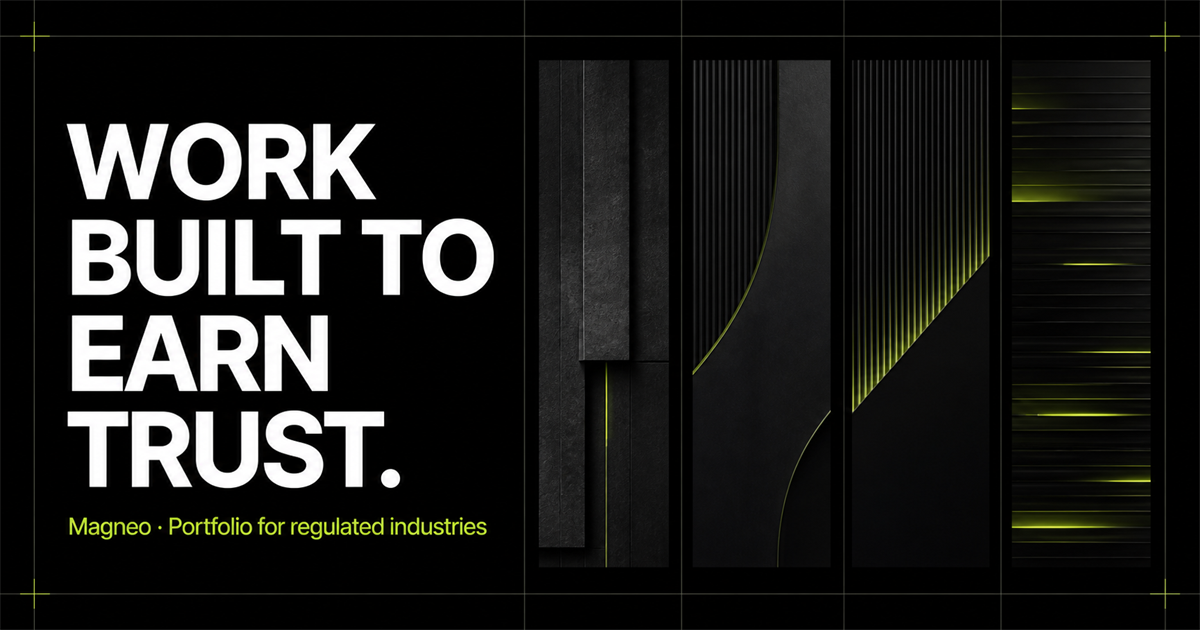
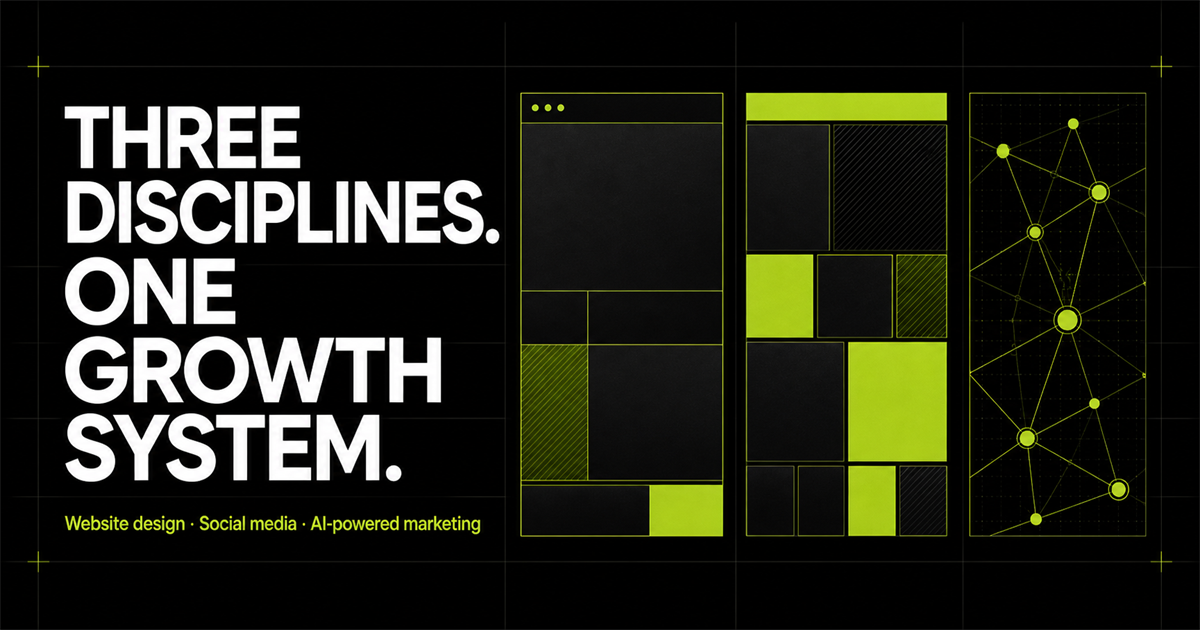
Redesign portfolio around core services

diff --git a/src/styles/portfolio.css b/src/styles/portfolio.css
@@ -1,4 +1,4 @@
-.pf-main{--lime:#8fef00;--black:#090a09;--paper:#f4f3ef;--ink:#11130f;--line:#d9dbd4;color:var(--ink);background:#fff;overflow:hidden}.pf-main a{color:inherit}.pf-hero{min-height:760px;background:var(--black);color:#fff;position:relative;padding:112px 0 80px}.pf-hero:before{content:"";position:absolute;inset:0;background:linear-gradient(90deg,transparent 33.28%,rgba(255,255,255,.06) 33.33%,transparent 33.38%,transparent 66.61%,rgba(255,255,255,.06) 66.66%,transparent 66.71%)}.pf-hero-inner{position:relative;z-index:2}.pf-kicker{display:flex;justify-content:space-between;font-size:10px;text-transform:uppercase;letter-spacing:.18em;color:rgba(255,255,255,.5)}.pf-hero h1{font:400 clamp(74px,11vw,164px)/.78 var(--display);letter-spacing:-.065em;margin:100px 0 80px;max-width:1050px}.pf-hero h1 em{color:var(--lime);font-style:italic}.pf-hero-foot{display:grid;grid-template-columns:1fr 330px;gap:60px;align-items:end}.pf-hero-foot p{max-width:500px;color:rgba(255,255,255,.52);font-size:16px;line-height:1.7;margin:0}.pf-hero-foot a{display:flex;justify-content:space-between;padding-bottom:12px;border-bottom:1px solid rgba(255,255,255,.3);font-size:11px;text-transform:uppercase;letter-spacing:.12em}.pf-hero-foot a span{color:var(--lime)}.pf-orbit{position:absolute;right:-110px;top:100px;width:420px;height:420px;border:1px solid rgba(143,239,0,.18);border-radius:50%;animation:pf-spin 20s linear infinite}.pf-orbit i{position:absolute;border:1px solid rgba(255,255,255,.1);border-radius:50%}.pf-orbit i:nth-child(1){inset:55px}.pf-orbit i:nth-child(2){inset:120px}.pf-orbit i:nth-child(3){width:12px;height:12px;background:var(--lime);border:0;left:29px;top:92px}@keyframes pf-spin{to{transform:rotate(360deg)}}
-.pf-index{background:var(--lime);padding:24px 0}.pf-index .container{display:grid;grid-template-columns:repeat(4,1fr)}.pf-index .container>div{display:flex;align-items:center;gap:13px;border-right:1px solid rgba(0,0,0,.15);padding:0 22px}.pf-index .container>div:first-child{padding-left:0}.pf-index .container>div:last-child{border:0}.pf-index b{font:400 28px var(--display)}.pf-index span{font-size:9px;text-transform:uppercase;letter-spacing:.12em}.pf-intro{padding:120px 0;background:var(--paper)}.pf-intro-grid{display:grid;grid-template-columns:.45fr 1.2fr .65fr;gap:6vw;align-items:start}.pf-intro span,.pf-section-head span,.pf-principles-title span,.pf-sectors-head>span,.pf-cta>.container>span{font-size:10px;text-transform:uppercase;letter-spacing:.16em;color:#6d736b}.pf-intro h2,.pf-section-head h2,.pf-principles-title h2,.pf-sectors-head h2{font:400 clamp(42px,5vw,72px)/.97 var(--display);letter-spacing:-.04em;margin:0}.pf-intro p{font-size:15px;line-height:1.75;color:#60665e;margin:0}.pf-featured{padding:120px 0}.pf-section-head{display:grid;grid-template-columns:1fr 390px;gap:70px;align-items:end;margin-bottom:50px}.pf-section-head h2{margin-top:14px}.pf-section-head p{font-size:14px;line-height:1.7;color:#666c64;margin:0}.pf-showcase{display:block;background:#111;position:relative}.pf-preview-grid{height:610px;display:grid;grid-template-columns:repeat(3,1fr);grid-template-rows:1fr 1fr;gap:2px;background:#111;overflow:hidden}.pf-preview{position:relative;overflow:hidden}.pf-preview img{width:100%;height:100%;object-fit:cover;display:block;transition:transform .65s cubic-bezier(.2,.7,.1,1)}.pf-showcase:hover .pf-preview img{transform:scale(1.04)}.pf-preview span{position:absolute;left:13px;top:12px;z-index:2;font-size:8px;letter-spacing:.14em;color:#fff}.pf-preview.classic img{filter:saturate(.55) sepia(.2);object-position:72% center}.pf-preview.bold{background:#5b38ff}.pf-preview.bold img{filter:grayscale(1) contrast(1.15);mix-blend-mode:multiply;object-position:74% center}.pf-preview.editorial img{filter:grayscale(1);object-position:87% center}.pf-preview.brain{background:#020303}.pf-preview.brain img{object-fit:contain;filter:drop-shadow(0 0 25px rgba(80,255,220,.25))}.pf-preview.cinematic img{filter:saturate(.6) brightness(.7)}.pf-preview.family img{filter:saturate(.78);object-position:70% center}.pf-showcase-bar{min-height:102px;background:var(--black);color:#fff;display:flex;align-items:center;justify-content:space-between;padding:22px 30px}.pf-showcase-bar div{display:grid;gap:5px}.pf-showcase-bar span{font-size:9px;text-transform:uppercase;letter-spacing:.15em;color:var(--lime)}.pf-showcase-bar b{font:400 24px var(--display)}.pf-showcase-bar>i{width:50px;height:50px;border-radius:50%;background:var(--lime);color:#172400;display:grid;place-items:center;font-style:normal;font-size:18px;transition:transform .25s}.pf-showcase:hover .pf-showcase-bar>i{transform:rotate(45deg)}.pf-featured-meta{display:flex;gap:8px;align-items:center;padding-top:20px}.pf-featured-meta>span{font-size:9px;border:1px solid var(--line);border-radius:100px;padding:6px 10px;color:#6d736c}.pf-featured-meta>a{font-size:11px;margin-left:auto;border-bottom:1px solid #111;padding-bottom:4px}.pf-principles{background:var(--black);color:#fff;padding:120px 0}.pf-principles-title{display:grid;grid-template-columns:.5fr 1.5fr;gap:6vw}.pf-principles-title span{color:rgba(255,255,255,.4)}.pf-principles-grid{display:grid;grid-template-columns:repeat(3,1fr);border-top:1px solid rgba(255,255,255,.14);border-left:1px solid rgba(255,255,255,.14);margin-top:80px}.pf-principles-grid article{min-height:310px;padding:28px;border-right:1px solid rgba(255,255,255,.14);border-bottom:1px solid rgba(255,255,255,.14);display:flex;flex-direction:column}.pf-principles-grid b{font-size:9px;color:var(--lime);letter-spacing:.12em}.pf-principles-grid h3{font:400 30px/1.05 var(--display);margin:auto 0 16px;max-width:270px}.pf-principles-grid p{font-size:12px;line-height:1.7;color:rgba(255,255,255,.45);margin:0}.pf-sectors{padding:120px 0;background:var(--paper)}.pf-sectors-head{display:grid;grid-template-columns:.45fr 1.1fr .55fr;gap:5vw;align-items:start;margin-bottom:75px}.pf-sectors-head h2{margin:0}.pf-sectors-head p{font-size:13px;line-height:1.7;color:#666d64;margin:0}.pf-sector-list{border-top:1px solid #aeb2aa}.pf-sector-list>a,.pf-sector-list>div{min-height:110px;border-bottom:1px solid #cdd0c9;display:grid;grid-template-columns:80px 1fr 260px 40px;align-items:center;gap:20px}.pf-sector-list b{font-size:10px;color:#727970}.pf-sector-list span{font:400 38px var(--display)}.pf-sector-list small{font-size:10px;text-transform:uppercase;letter-spacing:.1em;color:#81877f}.pf-sector-list i{font-style:normal;font-size:20px}.pf-sector-list>div{opacity:.42}.pf-sector-list>a{transition:padding .2s,background .2s}.pf-sector-list>a:hover{padding:0 18px;background:#fff}.pf-cta{padding:120px 0;background:var(--lime)}.pf-cta h2{font:400 clamp(58px,8.5vw,122px)/.87 var(--display);letter-spacing:-.055em;margin:35px 0 60px}.pf-cta h2 em{font-style:italic}.pf-cta>.container>div{display:flex;justify-content:space-between;align-items:center;gap:40px}.pf-cta p{margin:0;max-width:480px;font-size:15px}.pf-cta .btn{background:var(--black);color:#fff}
-@media(max-width:900px){.pf-hero{min-height:690px}.pf-hero h1{font-size:95px}.pf-hero-foot,.pf-intro-grid,.pf-section-head,.pf-principles-title,.pf-sectors-head{grid-template-columns:1fr}.pf-hero-foot a{max-width:330px}.pf-index .container{grid-template-columns:1fr 1fr;gap:18px 0}.pf-index .container>div:nth-child(2){border:0}.pf-preview-grid{height:700px;grid-template-columns:repeat(2,1fr);grid-template-rows:repeat(3,1fr)}.pf-principles-grid{grid-template-columns:1fr}.pf-principles-grid article{min-height:230px}.pf-sector-list>a,.pf-sector-list>div{grid-template-columns:50px 1fr 190px 30px}.pf-sector-list>div:after{content:""}.pf-featured-meta{flex-wrap:wrap}.pf-featured-meta>a{width:100%;margin:12px 0 0}.pf-orbit{opacity:.5}}
-@media(max-width:620px){.pf-hero{min-height:620px;padding-top:80px}.pf-kicker span:last-child{display:none}.pf-hero h1{font-size:67px;margin:80px 0 65px}.pf-hero-foot{gap:30px}.pf-index .container>div{padding:0 10px}.pf-index b{font-size:23px}.pf-intro,.pf-featured,.pf-principles,.pf-sectors,.pf-cta{padding:82px 0}.pf-preview-grid{height:580px}.pf-showcase-bar{padding:18px}.pf-showcase-bar b{font-size:19px}.pf-showcase-bar>i{width:42px;height:42px}.pf-section-head{margin-bottom:35px}.pf-sector-list>a,.pf-sector-list>div{grid-template-columns:34px 1fr;gap:10px;min-height:100px}.pf-sector-list small{grid-column:2}.pf-sector-list i{display:none}.pf-sector-list span{font-size:30px}.pf-cta h2{font-size:64px}.pf-cta>.container>div{align-items:flex-start;flex-direction:column}.pf-principles-grid{margin-top:50px}}@media(prefers-reduced-motion:reduce){.pf-main *{animation:none!important;transition:none!important}}
+.pf-main{--lime:#8fef00;--black:#090a09;--paper:#f4f3ef;--ink:#11130f;--line:#d9dbd4;color:var(--ink);background:#fff;overflow:hidden}.pf-main a{color:inherit}.pf-hero{min-height:760px;background:var(--black);color:#fff;position:relative;padding:112px 0 80px}.pf-hero:before{content:"";position:absolute;inset:0;background:linear-gradient(90deg,transparent 33.28%,rgba(255,255,255,.06) 33.33%,transparent 33.38%,transparent 66.61%,rgba(255,255,255,.06) 66.66%,transparent 66.71%)}.pf-hero-inner{position:relative;z-index:2}.pf-kicker{display:flex;justify-content:space-between;font-size:10px;text-transform:uppercase;letter-spacing:.18em;color:rgba(255,255,255,.5)}.pf-hero h1{font:400 clamp(68px,9.5vw,142px)/.84 var(--display);letter-spacing:-.06em;margin:100px 0 78px;max-width:1100px}.pf-hero h1 em{color:var(--lime);font-style:italic}.pf-hero-foot{display:grid;grid-template-columns:1fr 330px;gap:60px;align-items:end}.pf-hero-foot p{max-width:590px;color:rgba(255,255,255,.52);font-size:16px;line-height:1.7;margin:0}.pf-hero-foot a{display:flex;justify-content:space-between;padding-bottom:12px;border-bottom:1px solid rgba(255,255,255,.3);font-size:11px;text-transform:uppercase;letter-spacing:.12em}.pf-hero-foot a span{color:var(--lime)}.pf-hero-code{position:absolute;right:3vw;top:115px;display:grid;gap:16px;color:rgba(143,239,0,.3);font:400 11px var(--body)}.pf-hero-code span{width:45px;height:45px;border:1px solid rgba(143,239,0,.2);border-radius:50%;display:grid;place-items:center}.pf-index{background:var(--lime)}.pf-index .container{display:grid;grid-template-columns:repeat(3,1fr)}.pf-index a{min-height:84px;display:flex;align-items:center;gap:17px;border-right:1px solid rgba(0,0,0,.17);padding:0 30px;transition:background .2s}.pf-index a:first-child{padding-left:0}.pf-index a:last-child{border:0}.pf-index a:hover{background:rgba(255,255,255,.2)}.pf-index b{font:400 30px var(--display)}.pf-index span{font-size:10px;text-transform:uppercase;letter-spacing:.12em}.pf-intro{padding:120px 0;background:var(--paper)}.pf-intro-grid{display:grid;grid-template-columns:.45fr 1.2fr .65fr;gap:6vw;align-items:start}.pf-intro span,.pf-discipline-head span,.pf-social-copy>span,.pf-system>.container>span,.pf-cta>.container>span{font-size:10px;text-transform:uppercase;letter-spacing:.16em;color:#6d736b}.pf-intro h2,.pf-discipline-head h2,.pf-social-copy h2{font:400 clamp(42px,5vw,72px)/.97 var(--display);letter-spacing:-.04em;margin:0}.pf-intro p{font-size:15px;line-height:1.75;color:#60665e;margin:0}.pf-discipline{padding:125px 0}.pf-discipline-head{display:grid;grid-template-columns:1.35fr .65fr;gap:9vw;align-items:end;margin-bottom:58px}.pf-discipline-head h2{margin-top:16px}.pf-discipline-head h2 em,.pf-social-copy h2 em{font-style:italic;color:#579600}.pf-discipline-head>div:last-child p{font-size:14px;line-height:1.75;color:#666c64;margin:0 0 26px}.pf-discipline-head>div:last-child a,.pf-social-copy>a{font-size:11px;border-bottom:1px solid currentColor;padding-bottom:5px}.pf-web-showcase{display:block;background:#111}.pf-preview-grid{height:590px;display:grid;grid-template-columns:repeat(3,1fr);grid-template-rows:1fr 1fr;gap:2px;background:#111;overflow:hidden}.pf-preview{position:relative;overflow:hidden}.pf-preview img{width:100%;height:100%;object-fit:cover;display:block;transition:transform .65s cubic-bezier(.2,.7,.1,1)}.pf-web-showcase:hover .pf-preview img{transform:scale(1.04)}.pf-preview span{position:absolute;left:13px;top:12px;z-index:2;font-size:8px;letter-spacing:.14em;color:#fff}.pf-preview.classic img{filter:saturate(.55) sepia(.2);object-position:72% center}.pf-preview.bold{background:#5b38ff}.pf-preview.bold img{filter:grayscale(1) contrast(1.15);mix-blend-mode:multiply;object-position:74% center}.pf-preview.editorial img{filter:grayscale(1);object-position:87% center}.pf-preview.brain{background:#020303}.pf-preview.brain img{object-fit:contain;filter:drop-shadow(0 0 25px rgba(80,255,220,.25))}.pf-preview.cinematic img{filter:saturate(.6) brightness(.7)}.pf-preview.family img{filter:saturate(.78);object-position:70% center}.pf-showcase-bar{min-height:102px;background:var(--black);color:#fff;display:flex;align-items:center;justify-content:space-between;padding:22px 30px}.pf-showcase-bar div{display:grid;gap:5px}.pf-showcase-bar span{font-size:9px;text-transform:uppercase;letter-spacing:.15em;color:var(--lime)}.pf-showcase-bar b{font:400 24px var(--display)}.pf-showcase-bar>i{width:50px;height:50px;border-radius:50%;background:var(--lime);color:#172400;display:grid;place-items:center;font-style:normal;font-size:18px;transition:transform .25s}.pf-web-showcase:hover .pf-showcase-bar>i{transform:rotate(45deg)}.pf-web-meta{display:flex;gap:8px;align-items:center;padding-top:20px}.pf-web-meta>span{font-size:9px;border:1px solid var(--line);border-radius:100px;padding:6px 10px;color:#6d736c}.pf-web-meta>a{font-size:11px;margin-left:auto;border-bottom:1px solid #111;padding-bottom:4px}.pf-social{background:#131512;color:#fff}.pf-social-grid{display:grid;grid-template-columns:.72fr 1.28fr;gap:8vw;align-items:center}.pf-social-copy>span{color:var(--lime)}.pf-social-copy h2{margin:30px 0}.pf-social-copy h2 em{color:var(--lime)}.pf-social-copy>p{color:rgba(255,255,255,.5);font-size:14px;line-height:1.75;max-width:460px}.pf-capabilities{display:flex;gap:7px;flex-wrap:wrap;margin:30px 0 42px}.pf-capabilities span{border:1px solid rgba(255,255,255,.17);border-radius:100px;padding:7px 11px;font-size:9px;text-transform:uppercase;letter-spacing:.08em}.pf-social-copy>a{color:#fff}.pf-social-board{min-height:650px;position:relative;display:grid;grid-template-columns:1fr 1fr;gap:14px;padding:28px;background:#080908;border:1px solid rgba(255,255,255,.12)}.pf-post{padding:25px;position:relative;overflow:hidden;display:flex;flex-direction:column}.pf-post small{font-size:8px;text-transform:uppercase;letter-spacing:.15em}.pf-post b{font:400 27px/1.04 var(--display)}.pf-post-one{background:var(--lime);color:#122000;justify-content:space-between}.pf-post-one b{font-size:34px}.pf-post-one>i{font-style:normal;font-size:22px}.pf-post-two{background:#6c3cff;grid-row:span 2;justify-content:flex-end}.pf-post-two:before{content:"";position:absolute;inset:12% -25% auto 20%;aspect-ratio:1;border:1px solid rgba(255,255,255,.35);border-radius:50%;box-shadow:0 0 0 32px rgba(255,255,255,.05),0 0 0 64px rgba(255,255,255,.04)}.pf-post-two>*{position:relative}.pf-post-two small{margin-bottom:auto}.pf-post-two b{font-size:34px}.pf-post-two>div{display:flex;gap:5px;margin-top:30px}.pf-post-two i{width:25px;height:3px;background:#fff}.pf-post-three{background:#f0ede6;color:#111;justify-content:space-between}.pf-post-three>span{font:400 70px/1 var(--display);color:#d85c40}.pf-post-three small{color:#666}.pf-board-label{position:absolute;right:28px;bottom:-29px;color:rgba(255,255,255,.4);font-size:8px;text-transform:uppercase;letter-spacing:.15em}.pf-ai{background:var(--paper)}.pf-ai-system{display:grid;grid-template-columns:1.25fr .75fr;min-height:570px;background:#080b0a;color:#fff}.pf-ai-map{position:relative;display:grid;grid-template-columns:repeat(4,1fr);align-items:center;padding:70px 45px;background-image:linear-gradient(rgba(143,239,0,.06) 1px,transparent 1px),linear-gradient(90deg,rgba(143,239,0,.06) 1px,transparent 1px);background-size:55px 55px}.pf-ai-map>i{height:1px;background:linear-gradient(90deg,var(--lime),rgba(143,239,0,.15));position:relative}.pf-ai-map>i:after{content:"";position:absolute;right:0;top:-3px;width:7px;height:7px;background:var(--lime);border-radius:50%}.pf-node{width:115px;height:115px;border:1px solid rgba(143,239,0,.35);background:rgba(5,12,8,.88);border-radius:50%;display:grid;place-content:center;text-align:center;font:400 19px var(--display);box-shadow:0 0 45px rgba(143,239,0,.08);position:relative;z-index:2}.pf-node small{font:400 7px var(--body);text-transform:uppercase;letter-spacing:.12em;color:rgba(255,255,255,.4);margin-top:5px}.pf-ai-detail{padding:65px 48px;background:#141914;display:flex;flex-direction:column;justify-content:center}.pf-ai-detail>span{font-size:8px;text-transform:uppercase;letter-spacing:.16em;color:var(--lime)}.pf-ai-detail h3{font:400 35px/1.05 var(--display);margin:32px 0 22px}.pf-ai-detail p{font-size:12px;line-height:1.75;color:rgba(255,255,255,.5)}.pf-ai-detail>div{display:flex;flex-wrap:wrap;gap:6px;margin-top:24px}.pf-ai-detail b{font-size:8px;text-transform:uppercase;border:1px solid rgba(255,255,255,.14);border-radius:100px;padding:6px 9px}.pf-ai-detail>small{font-size:8px;text-transform:uppercase;letter-spacing:.12em;color:rgba(255,255,255,.28);margin-top:55px}.pf-system{padding:95px 0;background:#fff;text-align:center}.pf-system-flow{display:flex;align-items:center;justify-content:center;gap:2vw;margin:40px 0}.pf-system-flow b{font:400 clamp(27px,3.3vw,47px) var(--display)}.pf-system-flow i{font-style:normal;color:#6eb900}.pf-system p{font-size:13px;line-height:1.7;color:#686e66;max-width:720px;margin:0 auto}.pf-cta{padding:120px 0;background:var(--lime)}.pf-cta h2{font:400 clamp(58px,8.5vw,122px)/.87 var(--display);letter-spacing:-.055em;margin:35px 0 60px}.pf-cta h2 em{font-style:italic}.pf-cta>.container>div{display:flex;justify-content:space-between;align-items:center;gap:40px}.pf-cta p{margin:0;max-width:480px;font-size:15px}.pf-cta .btn{background:var(--black);color:#fff}
+@media(max-width:1000px){.pf-social-grid,.pf-ai-system{grid-template-columns:1fr}.pf-social-copy{padding-bottom:25px}.pf-ai-map{min-height:420px}.pf-intro-grid,.pf-discipline-head{grid-template-columns:1fr}.pf-discipline-head{gap:35px}.pf-preview-grid{height:700px;grid-template-columns:repeat(2,1fr);grid-template-rows:repeat(3,1fr)}}
+@media(max-width:760px){.pf-hero{min-height:690px}.pf-hero h1{font-size:78px}.pf-hero-foot{grid-template-columns:1fr}.pf-hero-foot a{max-width:330px}.pf-index .container{grid-template-columns:1fr}.pf-index a,.pf-index a:first-child{padding:0 5px;border-right:0;border-bottom:1px solid rgba(0,0,0,.15);min-height:65px}.pf-web-meta{flex-wrap:wrap}.pf-web-meta>a{width:100%;margin:12px 0 0}.pf-social-board{min-height:560px}.pf-ai-map{grid-template-columns:1fr;justify-items:center;gap:0}.pf-ai-map>i{width:1px;height:38px;background:linear-gradient(var(--lime),rgba(143,239,0,.15))}.pf-ai-map>i:after{right:-3px;top:auto;bottom:0}.pf-system-flow{flex-wrap:wrap}.pf-hero-code{display:none}}
+@media(max-width:620px){.pf-hero{min-height:630px;padding-top:80px}.pf-kicker span:last-child{display:none}.pf-hero h1{font-size:58px;margin:80px 0 65px}.pf-intro,.pf-discipline,.pf-system,.pf-cta{padding:82px 0}.pf-preview-grid{height:580px}.pf-showcase-bar{padding:18px}.pf-showcase-bar b{font-size:19px}.pf-showcase-bar>i{width:42px;height:42px}.pf-social-board{grid-template-columns:1fr;min-height:780px;padding:16px}.pf-post-two{grid-row:auto}.pf-ai-detail{padding:45px 24px}.pf-system-flow{gap:8px 14px}.pf-system-flow b{font-size:27px}.pf-cta h2{font-size:61px}.pf-cta>.container>div{align-items:flex-start;flex-direction:column}}@media(prefers-reduced-motion:reduce){.pf-main *{animation:none!important;transition:none!important}}

diff --git a/src/Portfolio.jsx b/src/Portfolio.jsx
@@ -12,10 +12,10 @@ const legalPreviews = [
 
 export default function Portfolio(){
   useEffect(()=>{
-    document.title='Portfolio | Magneo — Work for Regulated Industries';
+    document.title='Portfolio | Magneo — Web, Social & AI Marketing';
     let description=document.querySelector('meta[name="description"]');
     if(!description){description=document.createElement('meta');description.name='description';document.head.appendChild(description);}
-    description.content='Explore Magneo portfolio work and original website concepts for legal and other regulated industries.';
+    description.content='Explore Magneo work across website design, social media marketing, and AI-powered digital marketing for regulated industries.';
     let canonical=document.querySelector('link[rel="canonical"]');
     if(!canonical){canonical=document.createElement('link');canonical.rel='canonical';document.head.appendChild(canonical);}
     canonical.href='https://magneo.ca/portfolio/';
@@ -24,32 +24,52 @@ export default function Portfolio(){
   return <div className="pf-main">
     <section className="pf-hero">
       <div className="container pf-hero-inner">
-        <div className="pf-kicker"><span>Selected work · Magneo</span><span>Toronto / Canada + USA</span></div>
-        <h1>Work built to<br/>earn <em>trust.</em></h1>
-        <div className="pf-hero-foot"><p>Strategy, identity, websites, and growth systems for businesses where credibility is part of the product.</p><a href="#featured-work">View selected work <span>↓</span></a></div>
+        <div className="pf-kicker"><span>Magneo portfolio · Selected work</span><span>Three connected disciplines</span></div>
+        <h1>Three disciplines.<br/><em>One growth system.</em></h1>
+        <div className="pf-hero-foot"><p>Website design, social media, and AI-powered marketing—built together for businesses whose reputation has to perform before the first conversation begins.</p><a href="#disciplines">Explore the portfolio <span>↓</span></a></div>
       </div>
-      <div className="pf-orbit" aria-hidden="true"><i/><i/><i/></div>
+      <div className="pf-hero-code" aria-hidden="true"><span>01</span><span>02</span><span>03</span></div>
     </section>
 
-    <section className="pf-index"><div className="container"><div><b>01</b><span>Live collection</span></div><div><b>06</b><span>Original legal concepts</span></div><div><b>04</b><span>Regulated sectors</span></div><div><b>01</b><span>Standard: earn trust</span></div></div></section>
+    <section className="pf-index"><div className="container"><a href="#web-design"><b>01</b><span>Website design</span></a><a href="#social-media"><b>02</b><span>Social media marketing</span></a><a href="#ai-marketing"><b>03</b><span>AI-powered marketing</span></a></div></section>
 
-    <section className="pf-intro"><div className="container pf-intro-grid"><span>Our portfolio</span><h2>Different industries.<br/>One difficult brief.</h2><p>Make a complex, high-stakes service feel clear enough to understand, credible enough to believe, and human enough to choose.</p></div></section>
+    <section className="pf-intro" id="disciplines"><div className="container pf-intro-grid"><span>How the portfolio is organized</span><h2>Not by industry.<br/>By the work we do.</h2><p>Each discipline solves a different part of the same problem: becoming easier to find, easier to trust, and easier to choose.</p></div></section>
 
-    <section className="pf-featured" id="featured-work">
+    <section className="pf-discipline pf-web" id="web-design">
       <div className="container">
-        <div className="pf-section-head"><div><span>Featured collection · 01</span><h2>Legal websites</h2></div><p>Six fictional law-firm directions exploring authority, empathy, specialist expertise, motion, and conversion.</p></div>
-        <Link className="pf-showcase" to="/portfolio/legal-websites/" aria-label="Explore the legal website design collection">
+        <div className="pf-discipline-head"><div><span>01 / Website design</span><h2>Turn expertise into<br/><em>an experience.</em></h2></div><div><p>Distinctive, conversion-focused websites for regulated businesses—where clarity, credibility, and visual memory all matter.</p><Link to="/services/website-design-for-regulated-professional-industries-magneo/">Explore website design ↗</Link></div></div>
+        <Link className="pf-web-showcase" to="/portfolio/legal-websites/" aria-label="Explore six legal website concepts">
           <div className="pf-preview-grid">{legalPreviews.map(([src,style],index)=><div className={`pf-preview ${style}`} key={`${style}-${index}`}><img src={src} alt=""/><span>{String(index+1).padStart(2,'0')}</span></div>)}</div>
-          <div className="pf-showcase-bar"><div><span>Law firm website design</span><b>Six ways to make legal expertise unforgettable.</b></div><i>↗</i></div>
+          <div className="pf-showcase-bar"><div><span>Featured collection · Legal websites</span><b>Six ways to make legal expertise unforgettable.</b></div><i>↗</i></div>
         </Link>
-        <div className="pf-featured-meta"><span>Personal injury</span><span>Litigation</span><span>Serious injury</span><span>Strategy + UX + Art direction</span><Link to="/portfolio/legal-websites/">Explore all six concepts ↗</Link></div>
+        <div className="pf-web-meta"><span>Live collection</span><span>6 original concepts</span><span>Personal injury + litigation</span><Link to="/portfolio/legal-websites/">View the complete collection ↗</Link></div>
       </div>
     </section>
 
-    <section className="pf-principles"><div className="container"><div className="pf-principles-title"><span>The work behind the work</span><h2>Designed to perform<br/>under scrutiny.</h2></div><div className="pf-principles-grid"><article><b>01 / Position</b><h3>Look unmistakably like yourself.</h3><p>We start with the audience, competitive landscape, and point of view—not a fashionable template.</p></article><article><b>02 / Explain</b><h3>Make complexity feel navigable.</h3><p>Structure, language, and interaction turn expertise into a decision people can confidently make.</p></article><article><b>03 / Convert</b><h3>Give trust somewhere to go.</h3><p>Every journey ends in a clear, low-friction next step built around how real buyers behave.</p></article></div></div></section>
+    <section className="pf-discipline pf-social" id="social-media">
+      <div className="container pf-social-grid">
+        <div className="pf-social-copy"><span>02 / Social media marketing</span><h2>Build authority<br/>before the <em>click.</em></h2><p>Content systems that turn specialist knowledge into recognizable points of view—designed for consistency, credibility, and sustained attention.</p><div className="pf-capabilities"><span>Strategy</span><span>LinkedIn</span><span>Short-form video</span><span>Founder brands</span></div><Link to="/services/social-media-linkedin-marketing-for-regulated-industries/">Explore social media marketing ↗</Link></div>
+        <div className="pf-social-board" aria-label="Social content system concept">
+          <article className="pf-post pf-post-one"><small>Authority series / 01</small><b>What your audience<br/>needs explained.</b><i>↗</i></article>
+          <article className="pf-post pf-post-two"><small>Founder point of view</small><b>Expertise becomes<br/>recognition through<br/>repetition.</b><div><i/><i/><i/><i/></div></article>
+          <article className="pf-post pf-post-three"><span>03</span><b>One idea.<br/>Multiple formats.</b><small>Article → carousel → video → conversation</small></article>
+          <div className="pf-board-label">Portfolio collection in development</div>
+        </div>
+      </div>
+    </section>
 
-    <section className="pf-sectors"><div className="container"><div className="pf-sectors-head"><span>Portfolio architecture</span><h2>A growing record of work<br/>for regulated industries.</h2><p>New collections will appear only when they are ready to demonstrate a complete strategic and creative direction.</p></div><div className="pf-sector-list"><Link to="/portfolio/legal-websites/"><b>01</b><span>Legal</span><small>Live · 6 concepts</small><i>↗</i></Link><div><b>02</b><span>Healthcare</span><small>Collection in development</small></div><div><b>03</b><span>Financial</span><small>Collection in development</small></div><div><b>04</b><span>Technology</span><small>Collection in development</small></div></div></div></section>
+    <section className="pf-discipline pf-ai" id="ai-marketing">
+      <div className="container">
+        <div className="pf-discipline-head"><div><span>03 / AI-powered digital marketing</span><h2>Move faster.<br/><em>Keep judgment human.</em></h2></div><div><p>AI-assisted research, content, search, creative production, and optimization—with the review systems regulated brands require.</p><Link to="/services/ai-powered-digital-marketing/">Explore AI-powered marketing ↗</Link></div></div>
+        <div className="pf-ai-system">
+          <div className="pf-ai-map" aria-label="AI-powered marketing workflow concept"><span className="pf-node node-one">Signal<small>Audience + search</small></span><i/><span className="pf-node node-two">Strategy<small>Human direction</small></span><i/><span className="pf-node node-three">Create<small>Content + campaigns</small></span><i/><span className="pf-node node-four">Learn<small>Measure + improve</small></span></div>
+          <div className="pf-ai-detail"><span>Controlled acceleration</span><h3>Automation where it helps.<br/>Review where it matters.</h3><p>The system increases production capacity without outsourcing brand judgment, factual accuracy, or compliance responsibility.</p><div><b>Research</b><b>SEO</b><b>Content</b><b>Video</b><b>Workflows</b></div><small>Portfolio collection in development</small></div>
+        </div>
+      </div>
+    </section>
 
-    <section className="pf-cta"><div className="container"><span>Have a high-trust brief?</span><h2>Let’s make the next<br/>piece of work <em>yours.</em></h2><div><p>Tell us what your audience needs to understand, believe, and do.</p><Link className="btn" to="/contact/">Start a conversation ↗</Link></div></div></section>
+    <section className="pf-system"><div className="container"><span>One connected system</span><div className="pf-system-flow"><b>Website</b><i>→</i><b>Content</b><i>→</i><b>Attention</b><i>→</i><b>Demand</b><i>→</i><b>Learning</b></div><p>Each service can stand alone. The strongest results come when the website, publishing system, distribution, and optimization loop reinforce one another.</p></div></section>
+
+    <section className="pf-cta"><div className="container"><span>Which discipline needs to move first?</span><h2>Let’s make the next<br/>piece of work <em>yours.</em></h2><div><p>Tell us what your audience needs to understand, believe, and do.</p><Link className="btn" to="/contact/">Start a conversation ↗</Link></div></div></section>
   </div>;
 }
